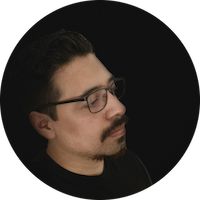
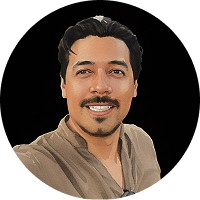
Feat: Publ. crisis de las izquierdas También cambios en /sobre-mi: Otra foto y un *blogroll* incipiente.

diff --git a/src/pages/sobre-mi.md b/src/pages/sobre-mi.md
@@ -2,26 +2,21 @@
 layout: '../layouts/Home.astro'
 title: Abraham Bahez
 createdAt: "2023-02-01T12:00"
-updatedAt: "2025-03-15T08:51"
+updatedAt: "2026-02-05T18:27"
 ---
 
 <img src="/sabhz200.png" alt="Perfil" style="margin-top:12.5vh; margin-bottom:7.5vh; max-width:200px">
 
 <h1 style="margin-top:0;"><a href="/">Sobre mí</a></h1>
 
-¡Hola! Soy Abraham Barrera Hernández (Bahez, simplificado).
+¡Hola! Soy Abraham Bahez.
 
-Antropólogo, comunicólogo y un nerd de internet. Nací en la Ciudad de México, pero, por ahora vivo en Mérida, Yucatán, donde estudié el doctorado en Ciencias Antropológicas.
+Antropólogo, comunicólogo y un nerd de internet (he trabajado 8 años como Product Manager técnico). Nací en la Ciudad de México, actualmente vivo en la península de Yucatán.
 
-No uso redes sociales, excepto por [Youtube](https://www.youtube.com/@abrahambahez), donde publico videos sobre gestión del conocimiento y, eventualmente, videoensayos de cosas que no terminarán en este blog.
+No uso redes sociales, excepto por [Youtube](https://www.youtube.com/@abrahambahez), donde hago contenido sobre lectura, escritura y análisis varios.
 
 Prefiero que me escriban por correo electrónico, reviso mi bandeja dos veces al día, y siempre estoy abierto a conversar o ayudar, así que puedes escribirme a [tacto@sabhz.com](mailto:tacto@sabhz.com).
 
-## Sobre este blog
-
-Programé este blog usando AstroJS, los estilos se basan en una versión ligeramente modificada de  [Tufte CSS](https://github.com/edwardtufte/tufte-css). Está desplegado en Vercel. No uso telemetría, no se cuántas personas lo han visitado.
-
-Pero me interesaría mucho saber si tú tienes un blog en español, he tratado de hacer una lista desde hace tiempo, pero solo me entristece ver que muchos están abandonados o ya caídos. Si tú escribes o conoces algún blog (de preferencia no Medium ni Substack), ¡por favor, escríbeme por email!
 
 ## Enlaces
 
@@ -31,3 +26,47 @@ Qué estoy haciendo [ahora](ahora).
 | [GitHub](https://github.com/abrahambahez)
 | [Envíame un email](mailto:tacto@sabhz.com)
 | ☕ [Cómprame un café](https://buymeacoffee.com/sabhz)
+
+## Colofón
+
+Programé este blog usando AstroJS, los estilos se basan en una versión ligeramente modificada de  [Tufte CSS](https://github.com/edwardtufte/tufte-css). Está desplegado en Vercel. No uso telemetría, no se cuántas personas lo han visitado.
+
+Pero me interesaría mucho saber si tú tienes un blog en español, he tratado de hacer una lista desde hace tiempo, pero solo me entristece ver que muchos están abandonados o ya caídos. Si tú escribes o conoces algún blog (de preferencia no Medium ni Substack), ¡por favor, [escríbeme por email](mailto:tacto@sabhz.com)!
+
+<br>
+
+---
+
+## Otros blogs en español
+
+¿Están en exitinción los blogs en español? No lo sé, pero tengo la sensación de que sí. Son bien difíciles de encontrar, y a veces cuando los encuentras ya están casi muertos (desactualizados, con enlaces rotos). Aquí una lista en la que intento mapear algunos que sean interesantes.
+
+No hay ningún criterio consistente para poner un blog aquí. Ni siquiera el hecho de que esté de acuerdo con las ideas que escriben. Solo deben tener algo que llame mi atención. Preferiría que no fueran de Medium o Substack, pero eso ya descartaría a la mayoría. Me siento reacio a incluir los que solo hablan de cosas técnicas (los programadores tienen más blogs que la gente común, para variar) o de trabajo (corrección: los marketeros deben tener más blogs), pero nada personal. Sin embargo, los pongo si hay algo interesante.
+
+Eventualmente esto debería ser un [blogroll](https://en.wikipedia.org/wiki/Blogroll) más en forma, pero hay muy pocos enlaces para eso.
+
+Sin orden particular.
+
+
+### Mi top personal
+
+- Mi querido [Andrés Mesa](https://www.amesaz.com), porque es un amigo entrañable y le sabe a la poesía (aunque han pasado 84 años desde que publicó algo)
+- [Osvaldo, el quiróptero](https://www.quiroptero.blog/), porque me gusta su autenticidad
+- [Luis Carlos Pando](https://luiscarlospando.com/), porque también, me gusta lo que comparte y cómo lo hace.
+
+\***
+
+Menciones honoríficas:
+
+- [Stiven Castillo](https://www.stiven.dev/blog) - Técnico y muy ocasional, pero lo combina con *standup*, toque original, sin duda
+- [Fernando Castellano](https://fernandocastellano.com/2025/03/09/sembrar-regar-podar-y-esperar/) - Blog en WordPress estilo clásico. Mayoritariamente laboral (consultoría) pero con un estilo personal y mucha iniciativa
+- [Mane Tatulyan](https://manetatulyan.com/journal/) - Un sitio de «filosofía profesional» que me parece muy interesante, creo que nunca mejor dicho, pero con un enfoque muy eurocéntrico y con un tufillo a Alt-right que se cuela por las orillas (sus colaboraciones)
+
+### Substack
+
+- [Gabi Chestrada](https://loqueseaqueinspire.substack.com/), curaduría de cosas interesantes centradas en el diseño.
+
+### Medium
+
+- [Karla Paniagua](https://cirila-thompson.medium.com). Contenido mixto inglés/español. Ligado a su profesión (los estudios del futuro) pero es una profesión de la que seguro te interesaría echar un vistazo, ¿cierto?
+

diff --git a/src/content/blog/la-crisis-de-las-izquierdas.md b/src/content/blog/la-crisis-de-las-izquierdas.md
@@ -1,13 +1,17 @@
 ---
 title: La crisis de las izquierdas
-createdAt: 2026-01-19T16:31
-updatedAt: 2026-01-19T16:31
+createdAt: 2026-02-05T17:58
+updatedAt: 2026-02-05T17:58
 tags:
-  - Publicacion
+  - Coleccion
 lang: es
 ---
 
 No sé por qué no lo entiendo, el presente. Escribo esto con las manos entumidas, y la mente tal vez fría, desacostumbrado, como estoy ahora, a pensar prolongadamente en un problema sin distraerme por cualquier cosa, obligaciones, trivialidades, asuntos urgentes o cosas sin importancia. Veré si puedo explicarme.
+
+## Contenido
+
+## ¿De qué estoy hablando?
 
 Primero, soy una persona de izquierda, aunque este mote se desmorone al comenzar a interrogarme sobre los matices. Segundo, el presente que no entiendo es lo que muchos llaman el «ascenso del fascismo»[^1] en el mundo. Entonces, mi problema de entendimiento empieza con la propia manera de describir lo que quiero entender en primer lugar. Porque mientras más le doy vueltas, más tengo la impresión de que mi problema en realidad es el de *la crisis de las izquierdas*. Particularmente, una serie de actitudes, creencias y actos que algunas personas públicas que, del lado siniestro del espectro político, me dejaron la sensación de que «no entendemos que no entendemos».
 
@@ -15,34 +19,31 @@ Tal vez la idea de una izquierda como unidad conceptual es una quimera; una form
 
 Como no puedo esperar a tener claridad, porque eso es algo que solo puedo lograr escribiendo, listaré a continuación todas las ideas que tengo al respecto. Tal vez al final solo resulte que lo que tenía era una indigestión cognitiva.
 
-## Contenido
+Como desarrollar todo en una sola publicación sería demasiado largo, usaré esta como una colección para ir enlazando mis reflexiones futuras sobre el asunto y desarrollarlas como se debe en espacios propios.
 
-## 1. Irreflexividad e inestabilidad espistemológica
+## 1. De la irreflexividad e inestabilidad espistemológica de las izquierdas
 
 - No todo es fascismo: la necesidad de actualizar diagnósticos
-- Formalismo crónico  y purismo ideológico
-- Metabolizar la derrota
-- Crisis de marcos epistemológicos: la necesidad de decolonizar la teoría, la necesidad de humildad intelectual (el no-saber), incorporación de conocimientos no-académicos
-	- Encubrimientos
+- Formalismo crónico: Detrimento de la efectividad táctica y estratégica de las acciones en nombre del purismo ideológico
+- ¿La izquierda puede aprender a metabolizar la derrota?
+- Crisis de marcos epistemológicos: la necesidad de decolonizar la teoría, la necesidad de humildad intelectual (el no-saber), crisis de a academia
 
-## 2. Irrelevancia comunicativa
+## 2. De la irrelevancia comunicativa de las izquierdas
 
 - Desprecio de la estética y el deseo
 - Analfabetismo tecnológico militante
 - Moralismo que fomenta sentimientos negativos como fuente de movilización (culpa, rabia, indignación), que son desgastantes, contraproducentes e insostenibles a largo plazo
 - Incapacidad de comunicar asertivamente la complejidad de los problemas para construir una cosmovisión deseable y movilizar iniciativas
-- Ausencia de narrativas de victoria
+- Escacez de narrativas de victoria
 
-## 3. Ausencia de estructuras fuera del Estado
+## 3. De la ausencia de estructuras fuera del Estado y el desgaste de las alternativas
 
 - En Latam, dependencia de victorias electorales y del Estado
 - Ausencia de estructuras de concientización política en lo cotidiano
 - Ausencia de infraestructuras económicas
-- Detrimento de la efectividad táctica y estratégica de las acciones en nombre del purismo ideológico
-
-## Mapear la escena de lo reaccionario
 
 
 [^1]: O el giro hacia la derecha, o el recrudecimiento de los movimientos reaccionarios, o la escalada del conservadurismo fundamentalista en occidente, o como sea que queramos describirlo
 
 [^2]: Ni siquiera estoy muy seguro de qué posiciones formarían parte de las esquinas del espectro
+

diff --git a/src/content/blog/_ecosistema-de-derechas.md b/src/content/blog/_ecosistema-de-derechas.md
@@ -1,14 +1,16 @@
-
 ---
 title: "Esbozos de un ecosistema de las derechas"
-createdAt: 2026-01-21T21:50
-updatedAt: 2026-01-21T21:50
+createdAt: 2026-02-05T18:04
+updatedAt: 2026-02-05T18:05
 tags:
   - Publicacion
 lang: es
 ---
+## Contenido
 
-## sobre esta clasificación
+## Introducción
+
+## Esbozo de un mapa de las derechas
 
 Este esquema abandona taxonomías formales que pueden aplicarse igualmente a izquierda y derecha. En su lugar, identifica **fundamentos** analíticos que capturan ideas, narrativas y emociones motivantes del escenario actual, reconociendo su naturaleza contradictoria, ambigua y fluida.
 
@@ -531,3 +533,5 @@ Este esquema abandona taxonomías formales que pueden aplicarse igualmente a izq
 **investigación participativa**: Gamificación de búsqueda de "verdad". Central en conspiracionismo, partes de manósfera.
 
 **terrorismo estocástico**: Difusión masiva de ideas que generan violencia sin coordinación directa. Alt-right, supremacismo, aceleracionismo.
+
+Cómo integrar al maltusianismo https://es.wikipedia.org/wiki/Malthusianismo

diff --git a/src/content/blog/ahora.md b/src/content/blog/ahora.md
@@ -7,7 +7,7 @@ tags:
 lang: es
 ---
 
-El último trimestre del 2025 encontré trabajo, trabajé y renuncié por *burnout*. [Vaya ironía](empezar-de-nuevo). Por eso dejé el blog. Ahora estoy en una situación muy parecida a inicios del año pasado, pero más viejo, más cansado y con más presiones. Igual no me quejo, encuentro felicidad en muchas cosas, mi familia, mi mundo interior, la esperanza de que el mundo exterior podría virar a mejores vientos tras superar las nefastas coyunturas que atraviesa ahora.
+El último trimestre del 2025 encontré trabajo, trabajé y renuncié por *burnout*. [Vaya ironía](empezar-de-nuevo). Por eso dejé el blog. Ahora estoy en una situación muy parecida a inicios del año pasado, pero más viejo, más cansado y con más presiones. Igual no me quejo: encuentro felicidad en muchas cosas, mi familia, mi mundo interior, la esperanza de que el mundo exterior podría virar a mejores vientos tras superar las nefastas coyunturas que atraviesa ahora.
 
 Fuera de eso:
 
